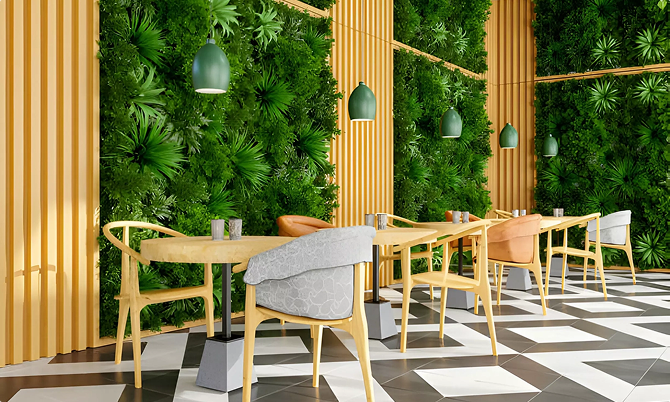
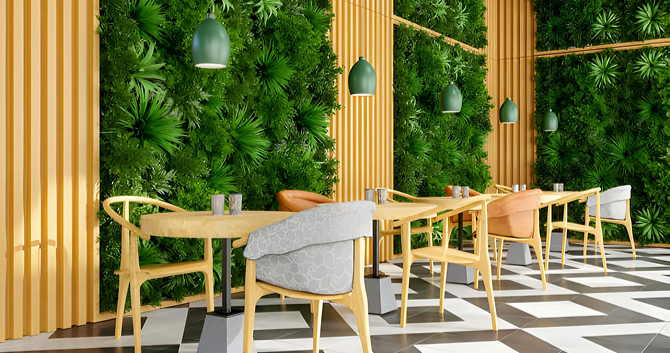
updated index

diff --git a/index.html b/index.html
@@ -74,7 +74,13 @@
         />
       </div>
     </section>
-
+    <section>
+      <img
+        src="/assets/desktopforside/espresso.png"
+        alt="Kaffebønner og kaffe som blir helt i kaffekopp på på bord"
+        width="1520"
+      />
+    </section>
     <section>
       <article class="cafecard">
         <img
@@ -88,16 +94,17 @@
           familieeide gårder, rister dem lokalt og serverer dem med stolthet.
         </p>
       </article>
-      <article>
+      <article class="cafecard">
+        <p>
+          Her kan du senke skuldrene, kjenne på roen og nyte en kopp kaffe med
+          god samvittighet. Kaffens Arv er din moderne oase. En møteplass der
+          kvalitet, fellesskap og omtanke står i sentrum.
+        </p>
         <img
           src="/assets/desktopforside/table-chair.png"
           alt="Sitteareal med grønne planter på vegg og trestoler og bord"
-          height="400"
-          width="auto"
+          width="600"
         />
-        Her kan du senke skuldrene, kjenne på roen og nyte en kopp kaffe med god
-        samvittighet. Kaffens Arv er din moderne oase. En møteplass der
-        kvalitet, fellesskap og omtanke står i sentrum.
       </article>
       <h3>Åpningstider</h3>
       <p>
@@ -106,27 +113,27 @@
     </section>
 
     <footer>
-  <p class="left">
-    Kontakt oss<br>
-    Storgata 12<br>
-    0161 Oslo<br>
-    Tlf: 22334455
-  </p>
+      <p class="left">
+        Kontakt oss<br />
+        Storgata 12<br />
+        0161 Oslo<br />
+        Tlf: 22334455
+      </p>
 
-  <p class="center">© 2025 Kaffens arv</p>
+      <p class="center">© 2025 Kaffens arv</p>
 
-   <nav class="right">
-    <a href="https://www.facebook.com" target="_blank">
-      <img src="assets/footer/facebook.png" alt="Facebook" class="icon">
-    </a>
-    <a href="https://www.instagram.com" target="_blank">
-      <img src="assets/footer/instagram.png" alt="Instagram" class="icon">
-    </a>
-    <a href="mailto:post@kaffensarv.no">
-      <img src="assets/footer/mail.png" alt="E-post" class="icon">
-    </a>
-  </nav>
-</footer>
+      <nav class="right">
+        <a href="https://www.facebook.com" target="_blank">
+          <img src="assets/footer/facebook.png" alt="Facebook" class="icon" />
+        </a>
+        <a href="https://www.instagram.com" target="_blank">
+          <img src="assets/footer/instagram.png" alt="Instagram" class="icon" />
+        </a>
+        <a href="mailto:post@kaffensarv.no">
+          <img src="assets/footer/mail.png" alt="E-post" class="icon" />
+        </a>
+      </nav>
+    </footer>
     <script src="js/script.js"></script>
   </body>
 </html>

diff --git a/css/forside.css b/css/forside.css
@@ -14,6 +14,7 @@
   flex-direction: row;
   display: flex;
   gap: 20px;
+  padding: 30px;
 }
 
 .monthlytext {
@@ -24,15 +25,20 @@
 .mothlypics {
   display: flex;
   flex-direction: row;
-  gap: 100px;
 }
 
 .cafecard {
+  font-size: 24px;
   display: flex;
+  justify-content: center;
   flex-direction: row;
-  padding: 50px;
+  padding: 30px;
+}
+
+.cafecard img {
+  border-radius: 5px;
 }
 .cafecard p {
   max-width: 600px;
-  padding: 50px;
+  padding: 75px;
 }
